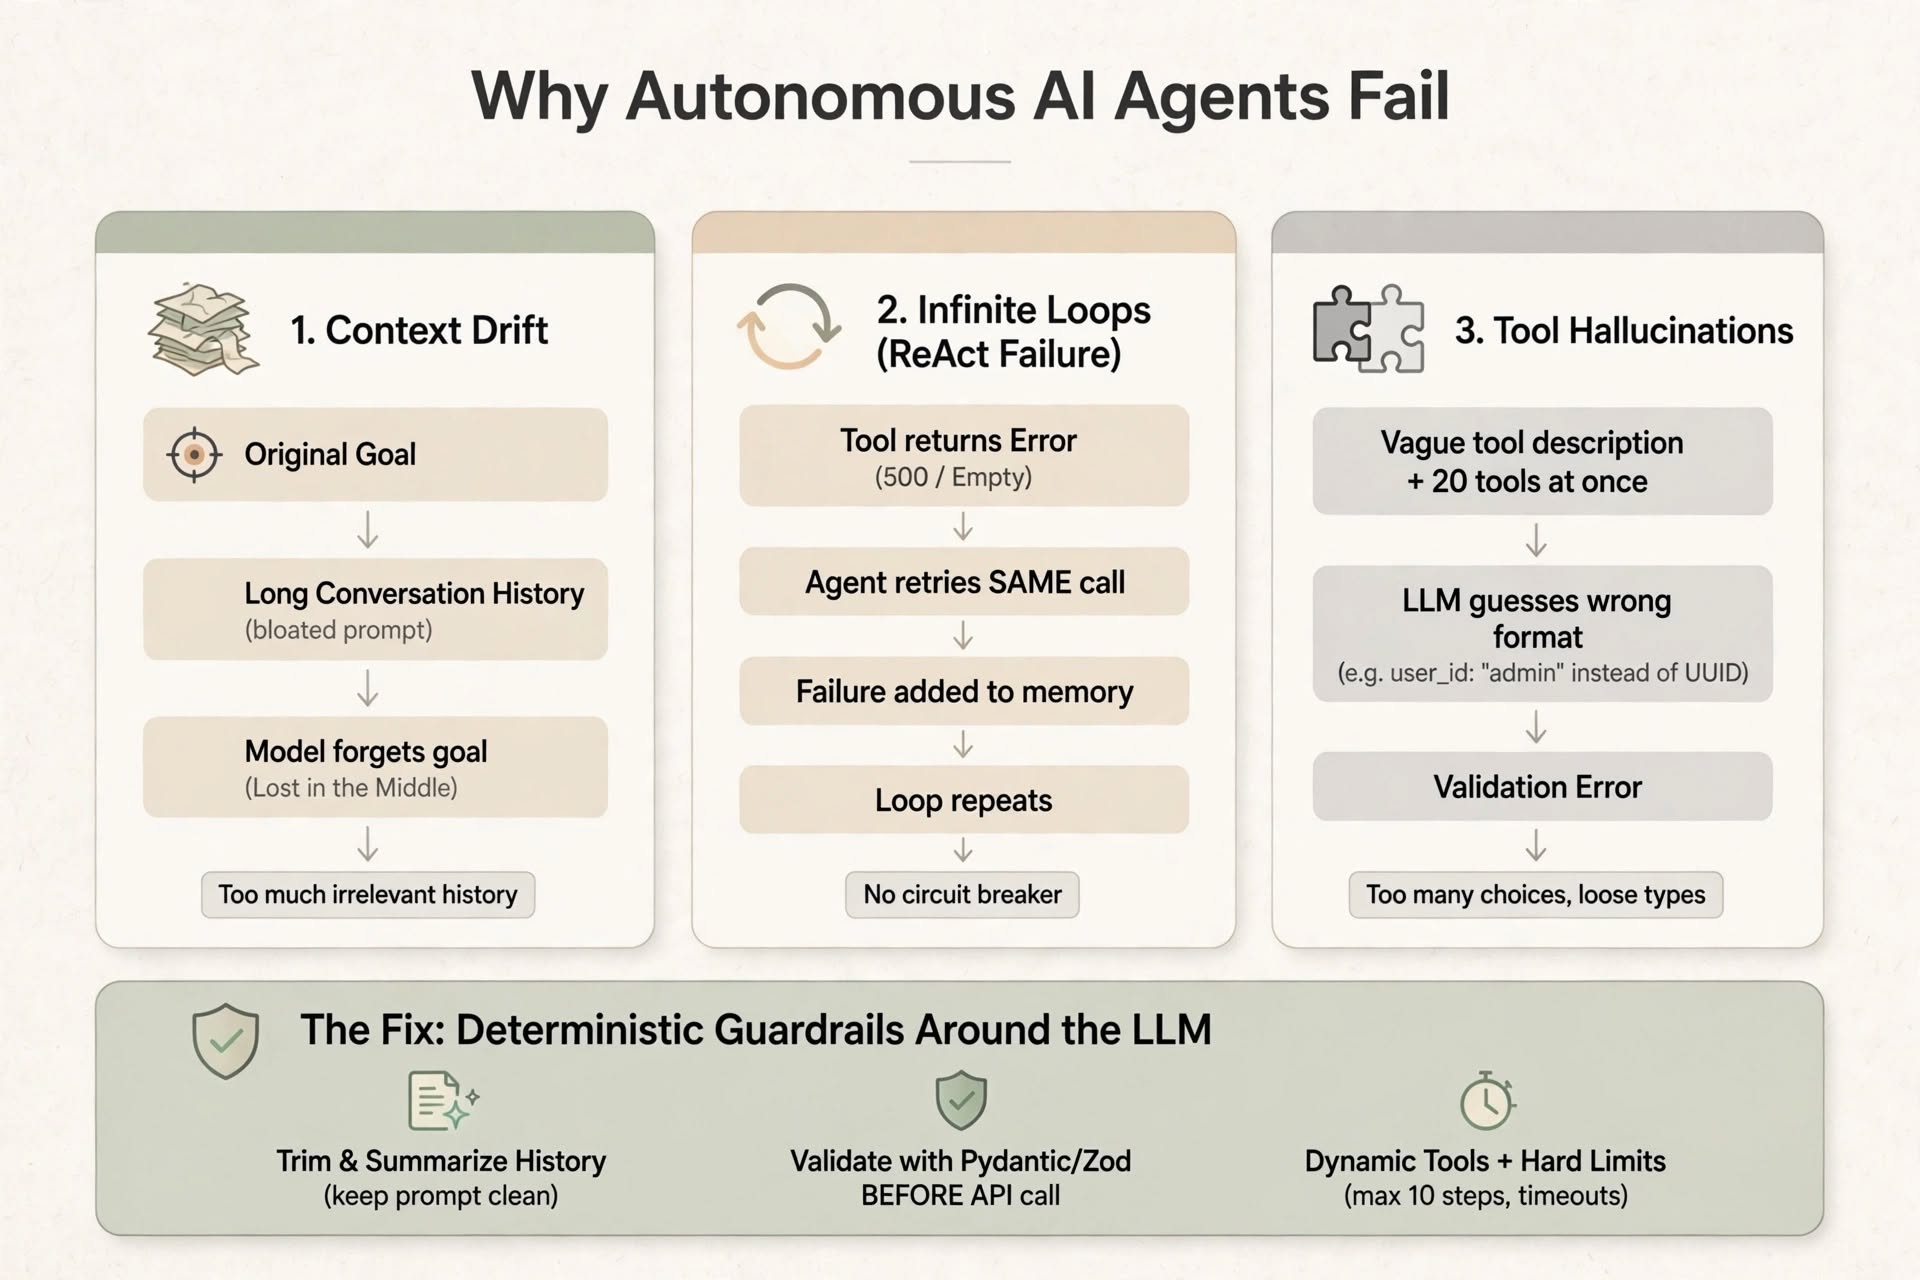
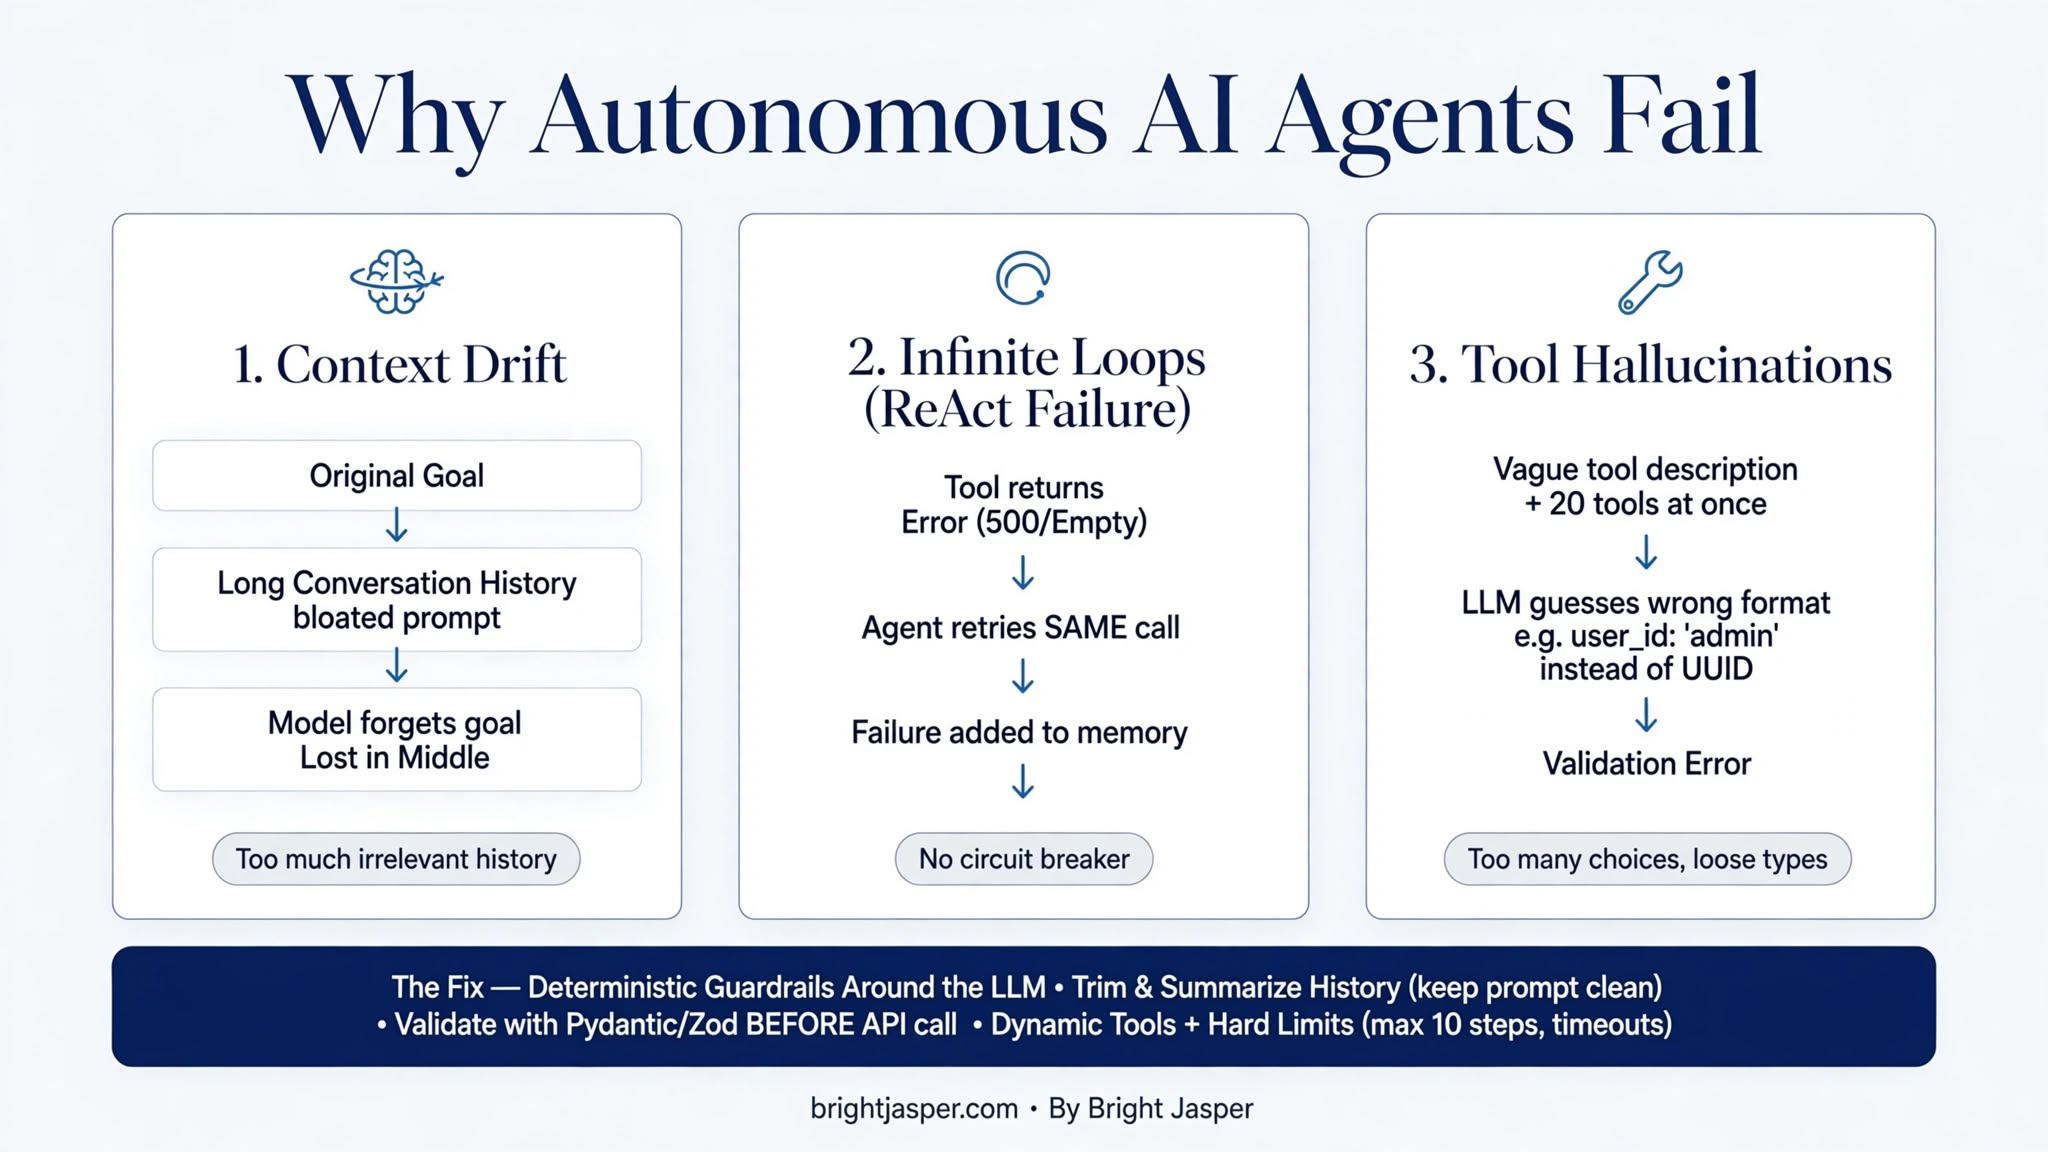
Added some images and removed them from the article and all

diff --git a/app/blog/[slug]/page.js b/app/blog/[slug]/page.js
@@ -37,7 +37,8 @@ export function generateMetadata({ params }) {
     type: "article",
   });
 
-  const coverImage = post.coverImage || "https://brightjasper.com/illustrations/book-writer.svg";
+  const rawCover = post.coverImage || "/illustrations/book-writer.svg";
+  const coverImage = rawCover.startsWith("http") ? rawCover : `https://brightjasper.com${rawCover}`;
   metadata.openGraph.images = [
     {
       url: coverImage,
@@ -65,6 +66,9 @@ export default function BlogPostPage({ params }) {
   const post = getBlogPostBySlug(params.slug);
   if (!post) notFound();
   const adjacentPosts = getAdjacentBlogPosts(params.slug, post.track);
+
+  const rawCover = post.coverImage || "/illustrations/book-writer.svg";
+  const coverImage = rawCover.startsWith("http") ? rawCover : `https://brightjasper.com${rawCover}`;
 
   const articleSchema = {
     "@context": "https://schema.org",
@@ -102,7 +106,7 @@ export default function BlogPostPage({ params }) {
       "@type": "WebPage",
       "@id": `https://brightjasper.com/blog/${post.slug}`,
     },
-    image: post.coverImage || "https://brightjasper.com/illustrations/book-writer.svg",
+    image: coverImage,
     keywords: post.keywords?.length
       ? post.keywords
       : [

diff --git a/app/about/page.js b/app/about/page.js
@@ -118,10 +118,10 @@ export default function AboutPage() {
 
       <div className="mt-10 flex flex-wrap gap-4">
         <Link
-          href="/contact"
+          href="https://brightjasper.com/contact"
           className="text-[14px] px-5 py-2.5 rounded-full bg-accent text-white hover:opacity-90"
         >
-          Get in touch 
+          Get in touch
         </Link>
 
         <ResumeButton />

diff --git a/me.md b/me.md
@@ -1,0 +1,23 @@
+Portfolio website: https://brightjasper.com
+
+Hashnode: https://hashnode.com/@brightjasper
+
+Twitter: https://x.com/brightjasper
+
+Facebook: https://facebook.com/brightjasp
+
+Linkedin: https://www.linkedin.com/in/bright-olorunfunmilola-20a8223b3
+
+Dev.to: https://dev.to/bright-jasper
+
+Contra: https://contra.com/bright_jasper_cj81z7g6
+
+Medium: https://medium.com/@brghtjasper
+
+GitHub: https://github.com/Aura-pix/bright-jasper
+
+Telegram: https://t.me/Jasper074
+
+Upwork: https://www.upwork.com/freelancers/~018d2a2818ff617a2b
+
+Youtube: https://www.youtube.com/@brightjasp
